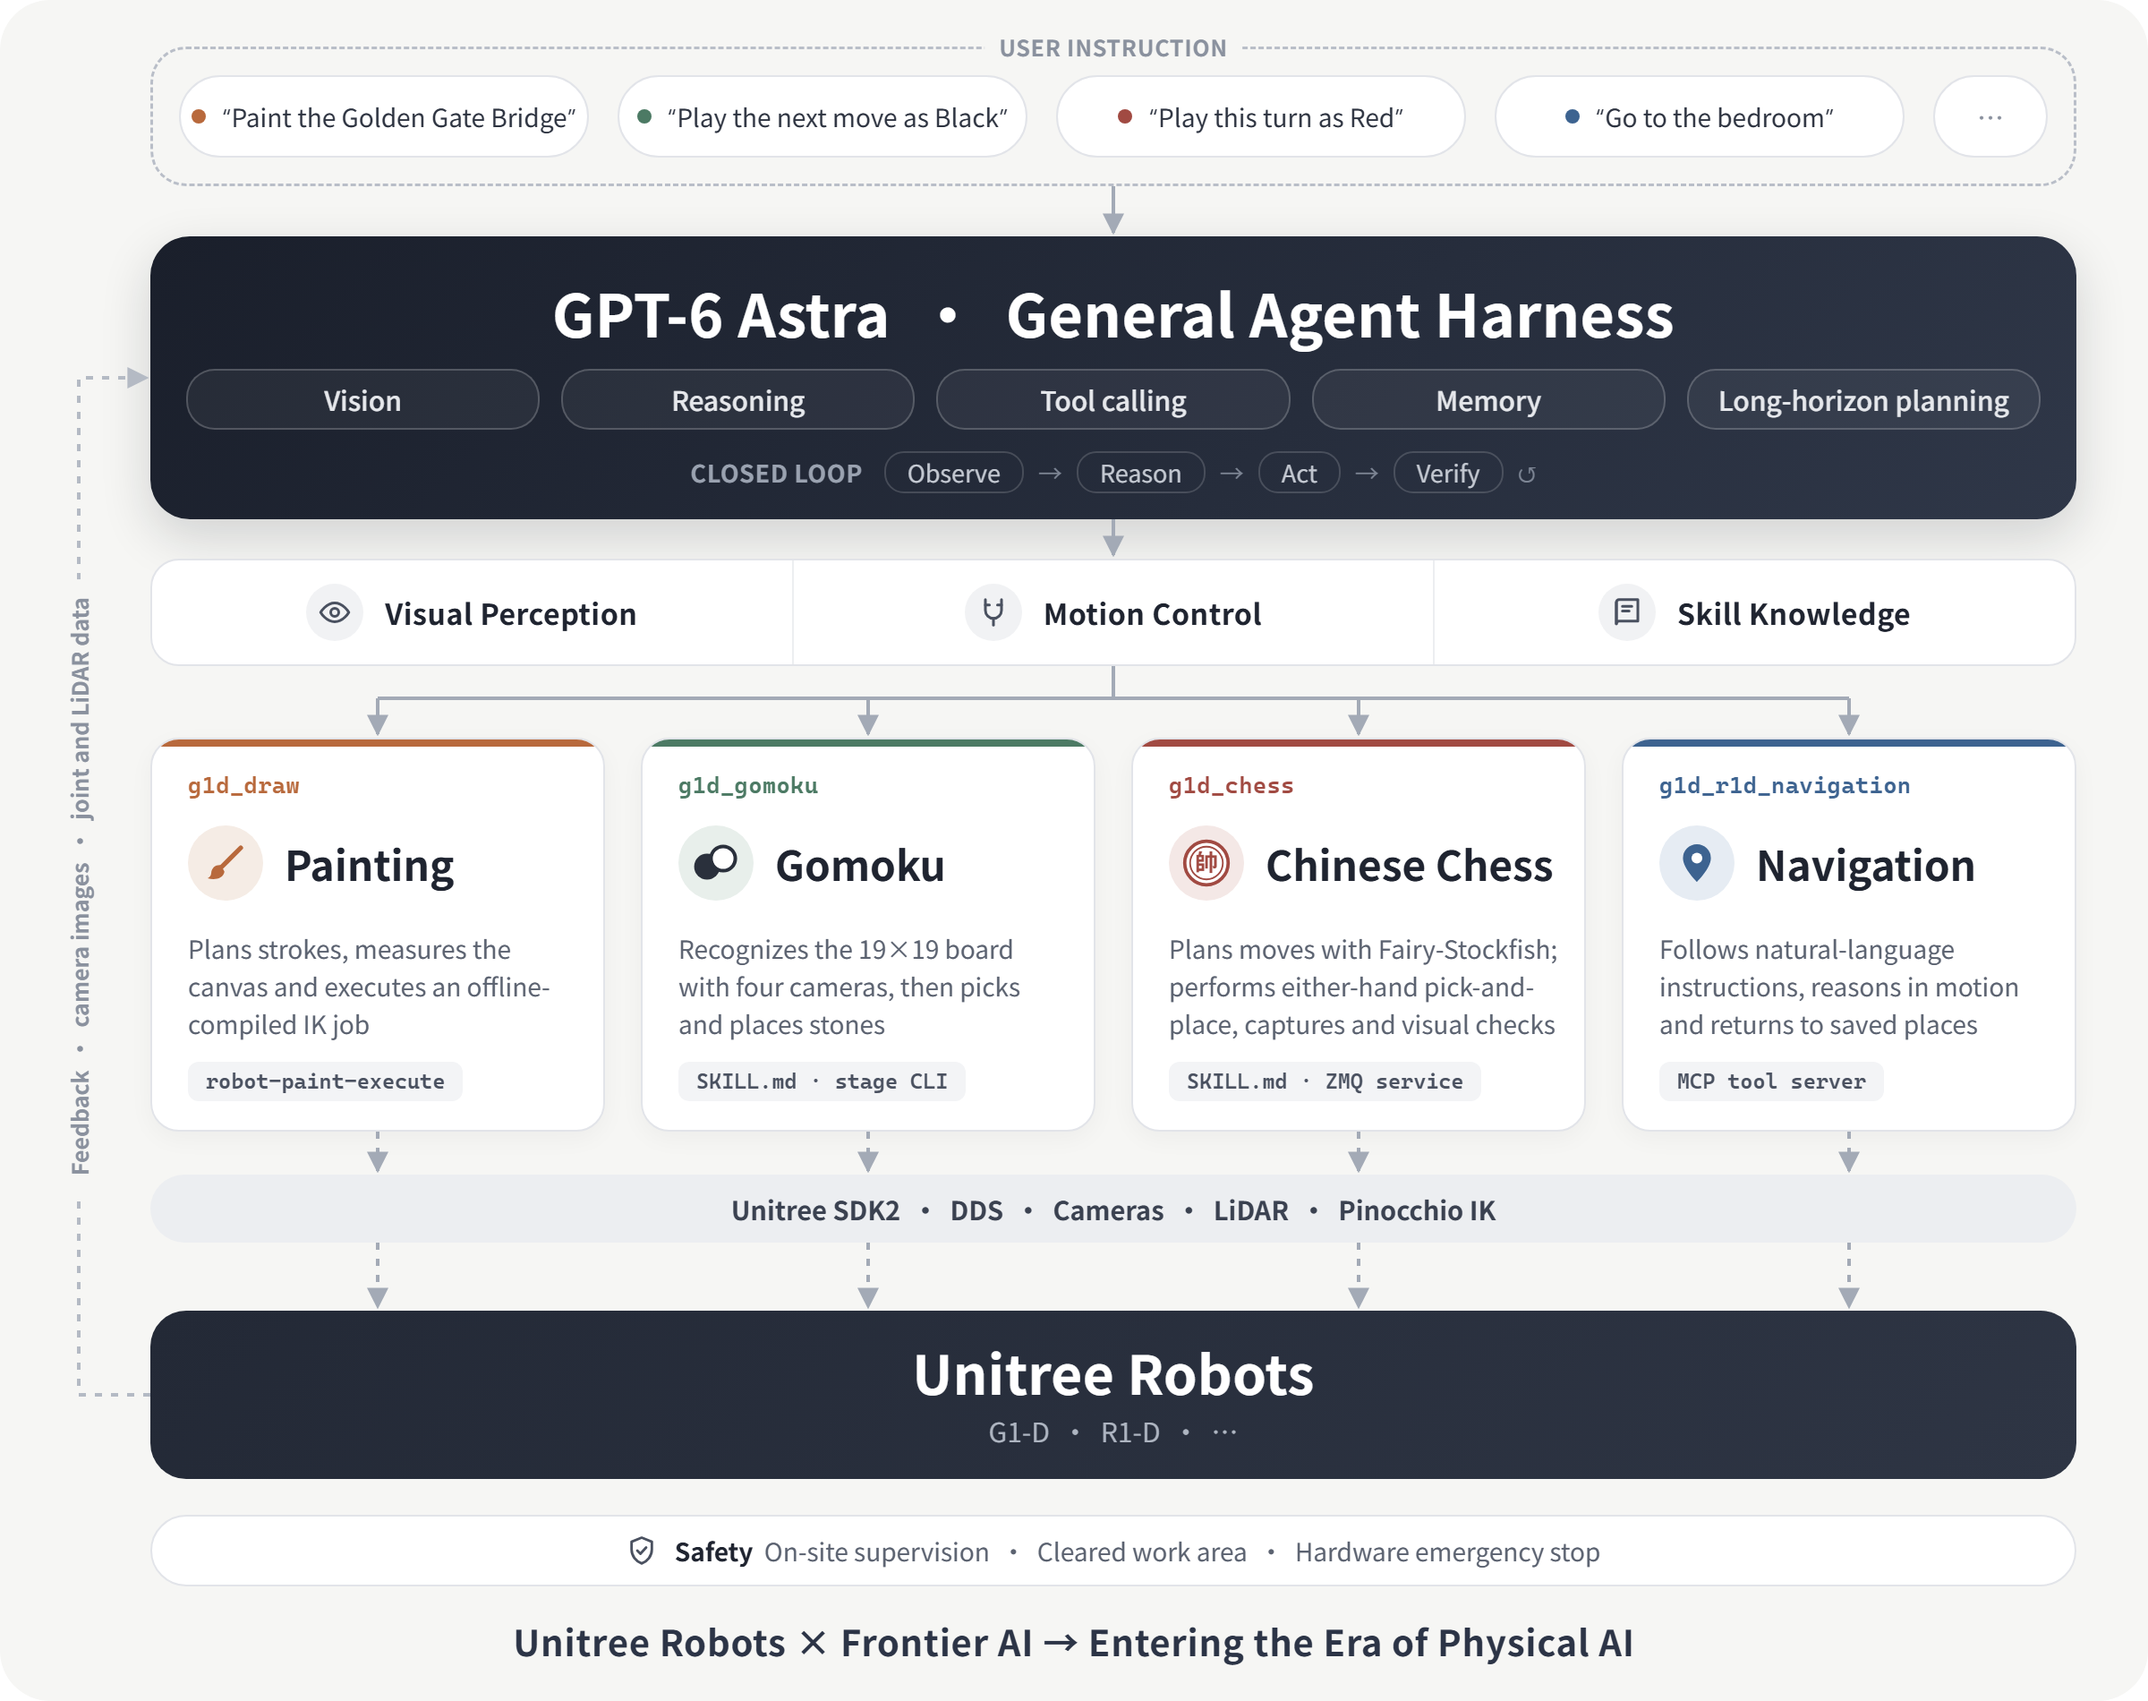
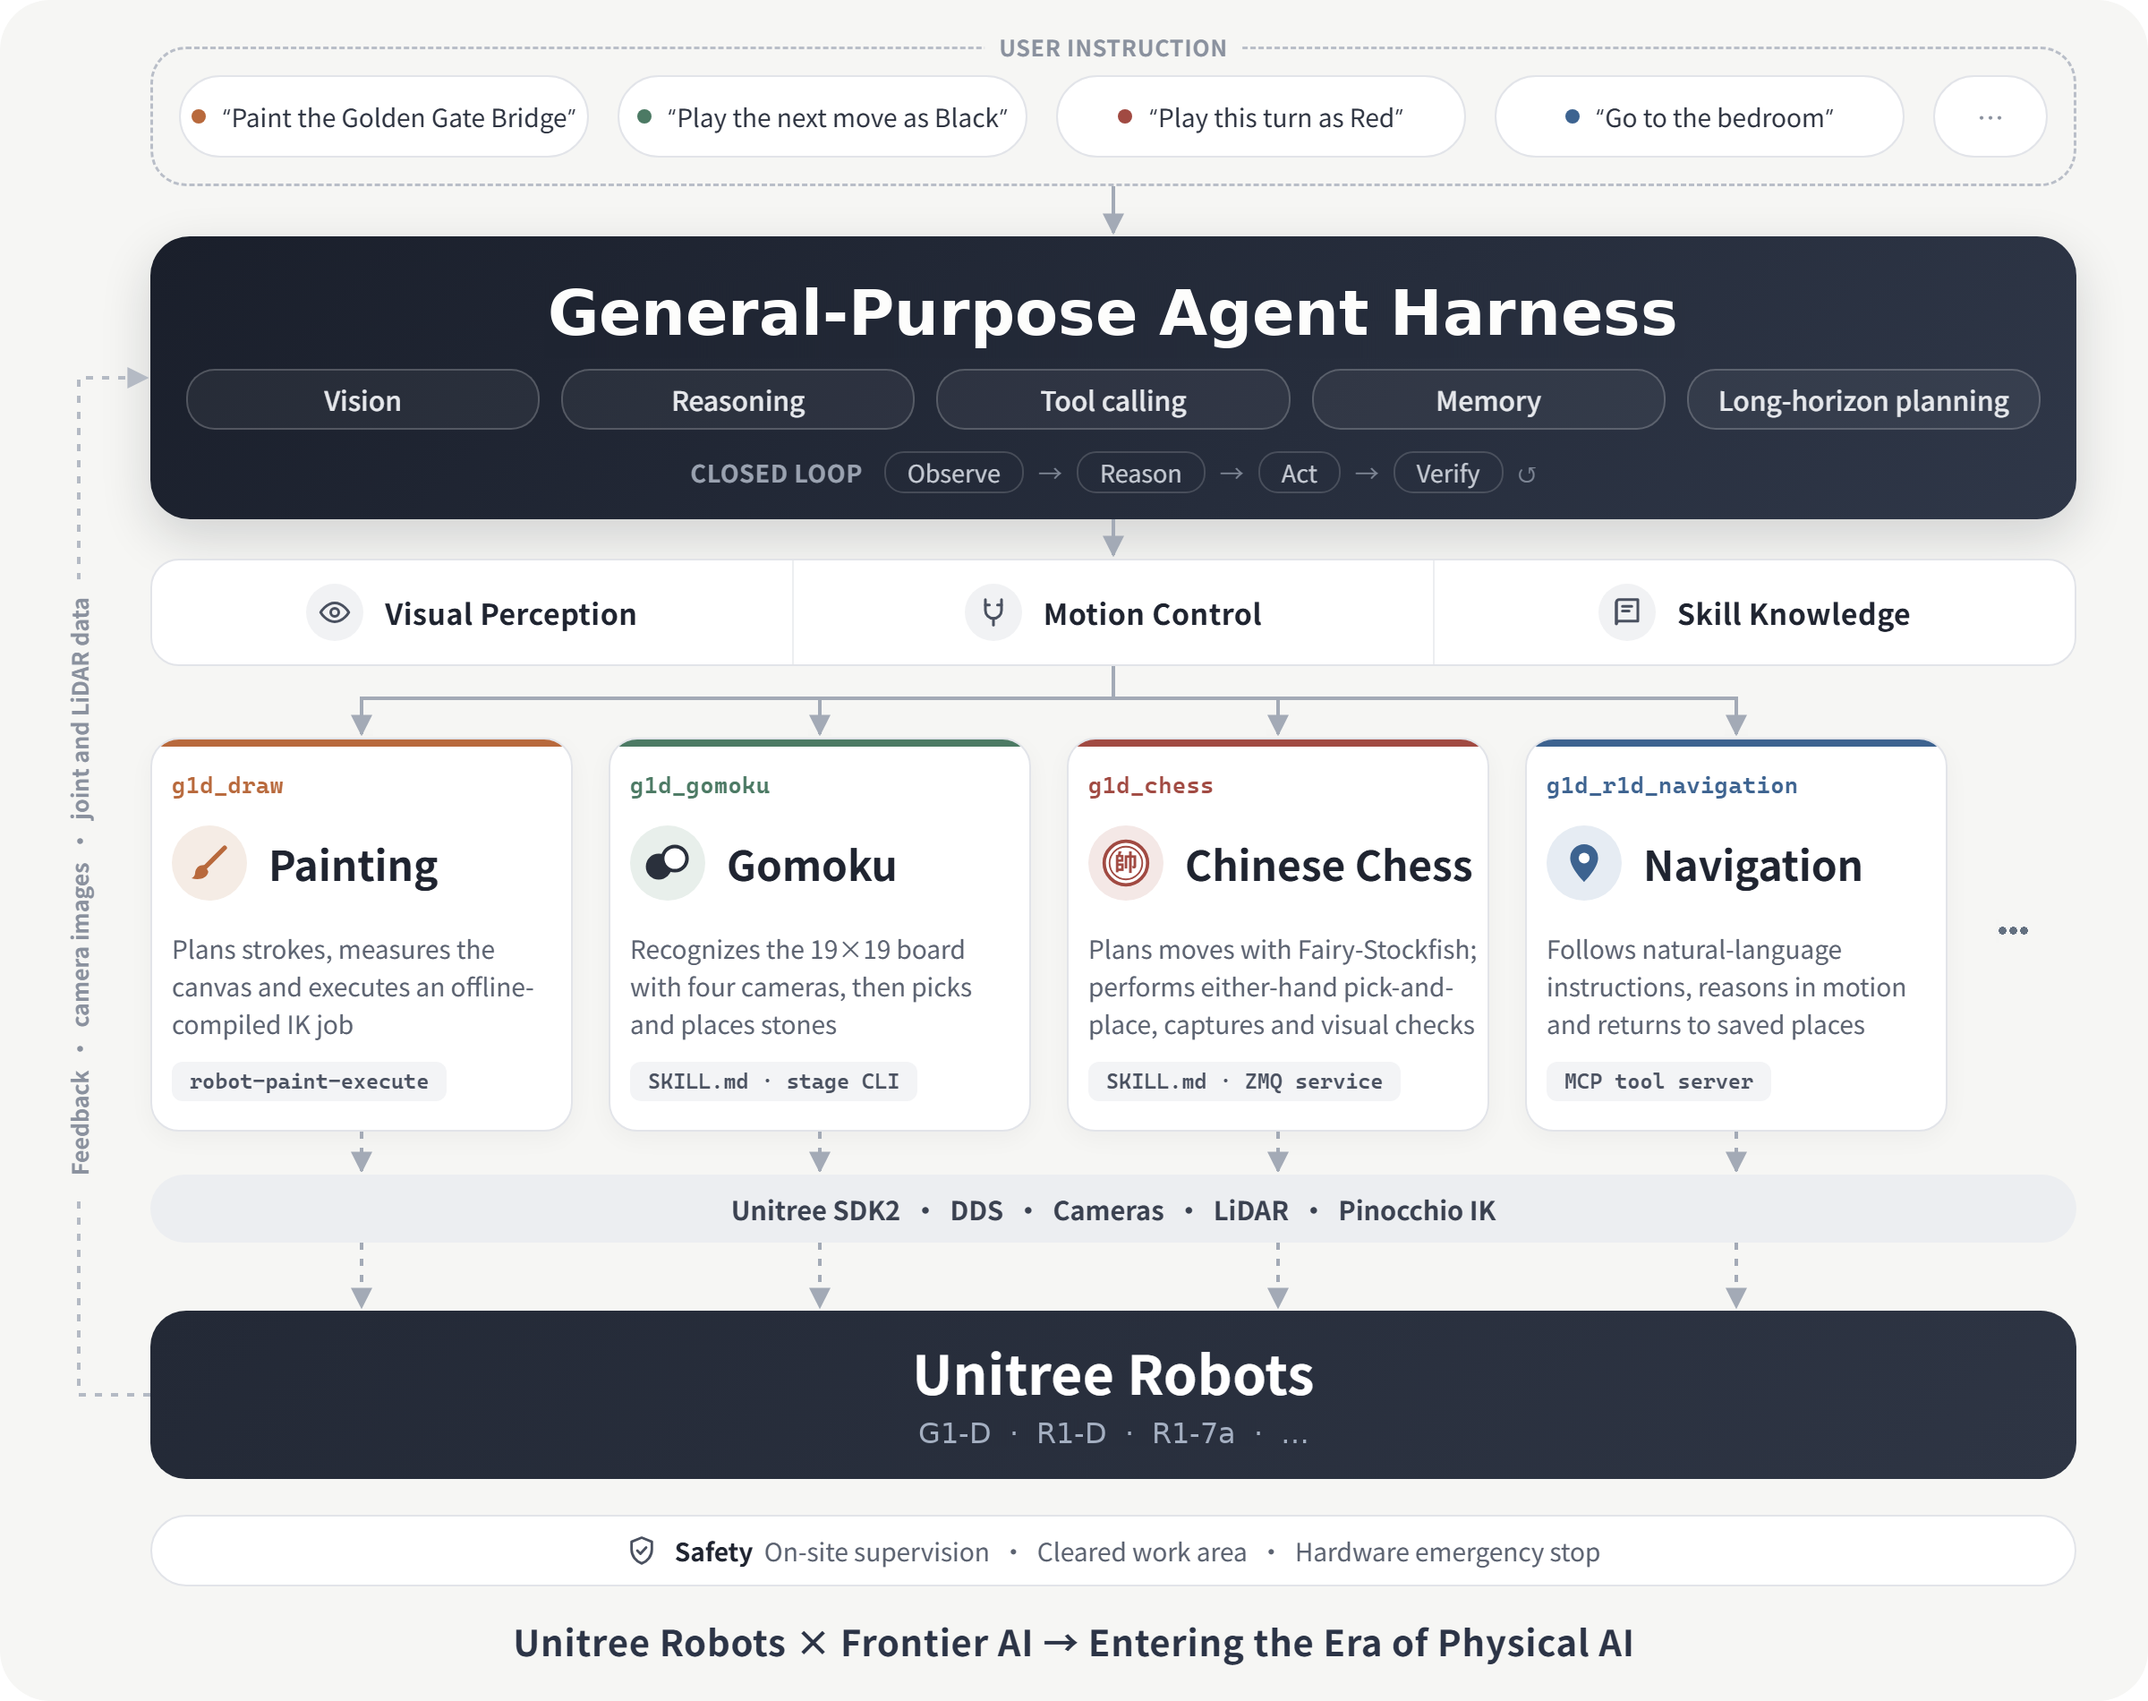
docs: update homepage and related documentation

diff --git a/README.md b/README.md
@@ -3,7 +3,7 @@
   <a href="https://www.unitree.com/" target="_blank">
     <img src="https://www.unitree.com/images/0079f8938336436e955ea3a98c4e1e59.svg" alt="Unitree LOGO" width="15%">
   </a>
-  <p align="center"><b>Unitree Robots · GPT‑6 Astra · General Skills for the Physical World</b></p>
+  <p align="center"><b>Unitree Robots · General Skills for Agents in the Physical World</b></p>
   <p align="center">
     <a>English</a> | <a href="README.zh.md">中文</a>
   </p>
@@ -14,7 +14,7 @@
   </p>
 </div>
 
-**Unitree RobotSkills** combines Unitree robots with frontier AI (GPT‑6 Astra, Claude Opus and others) to build agents that can read images, reason and call tools. Once given a set of robot skills, an AI model observes the scene through the robot's cameras, makes decisions autonomously and carries out tasks in the physical world. No dedicated model needs to be trained for each skill, which is a first step towards controlling robots through language instructions alone.
+**Unitree RobotSkills** provides reusable Agent skills for Unitree robots. Agents such as Codex and Claude Code can use these skills with the capabilities each workflow requires, such as image input, shell access or MCP tools. See each skill's README for its setup and runtime requirements.
 
 > **Unitree Robots × Frontier AI → Entering the Era of Physical AI**: one general AI agent empowers multiple Unitree robots, turning intelligence in conversation into action in the physical world.
 
@@ -63,7 +63,7 @@ Click a preview to watch the full video. The demos are sped up, and part of the 
 
 ### 1. Why It Matters
 
-Robot skills are usually built one task at a time: a dedicated perception model, a hand-written state machine and a fixed motion script. RobotSkills takes a different approach: **the GPT‑6 Astra general agent serves as the brain for every task**, and each skill provides the agent only with the capabilities the task requires:
+RobotSkills gives an Agent the instructions, observations and tools it needs for each task.
 
 - **Visual perception**: raw camera frames from the robot, read and interpreted directly by the agent.
 - **Motion control**: bounded robot tools built on Unitree SDK2 / DDS (arm poses, gripper, base motion, return to home).
@@ -72,7 +72,7 @@ Robot skills are usually built one task at a time: a dedicated perception model,
 The agent closes the loop autonomously: observe → reason → act → verify. A new task only requires a new skill, not a new model; supporting a new robot only requires adding its tools.
 
 <p align="center">
-  <img src="assets/architecture.png" alt="RobotSkills architecture: Unitree robots use GPT-6 Astra for painting, Gomoku, Chinese chess and navigation" width="100%">
+  <img src="assets/architecture.png" alt="RobotSkills architecture showing the General-Purpose Agent Harness and skills for painting, Gomoku, Chinese chess and navigation" width="100%">
 </p>
 
 ### 2. Skills

diff --git a/README.zh.md b/README.zh.md
@@ -3,7 +3,7 @@
   <a href="https://www.unitree.com/" target="_blank">
     <img src="https://www.unitree.com/images/0079f8938336436e955ea3a98c4e1e59.svg" alt="Unitree LOGO" width="15%">
   </a>
-  <p align="center"><b>宇树机器人 · GPT‑6 Astra · 物理世界通用技能</b></p>
+  <p align="center"><b>宇树机器人 · 面向 Agent 的物理世界通用技能</b></p>
   <p align="center">
     <a href="README.md">English</a> | <a>中文</a>
   </p>
@@ -14,7 +14,7 @@
   </p>
 </div>
 
-**Unitree RobotSkills** 将宇树机器人与最前沿的 AI（GPT‑6 Astra、Claude Opus 等）相结合，构建能够看图、推理并调用工具的 Agent。AI 模型获得一组机器人技能后，即可通过机器人相机观察现场、自主决策，并在物理世界中执行相应任务；无需为每个技能单独训练专用模型，初步实现仅凭语言指令即可控制机器人完成任务。
+**Unitree RobotSkills** 为宇树机器人提供可复用的 Agent 技能。Codex、Claude Code 等 Agent 可以按各技能的说明接入，使用任务所需的图像输入、Shell 或 MCP 工具。安装步骤和运行环境要求见各技能的 README。
 
 > **宇树机器人 × 最前沿 AI → 迈入物理 AI 时代**：一个通用 AI Agent 为多款宇树机器人赋能，把对话中的智能变成物理世界中的行动。
 
@@ -63,7 +63,7 @@
 
 ### 1. 项目价值
 
-机器人技能通常一次只解决一个任务：专用感知模型、手写状态机、固定动作脚本。RobotSkills 采用另一种方式：**由 GPT‑6 Astra 通用 Agent 担任所有任务的大脑**，每个技能仅向 Agent 提供完成任务所需的能力：
+RobotSkills 为 Agent 提供每项任务所需的操作说明、现场观测和工具。
 
 - **视觉感知**：机器人相机的原始画面，由 Agent 直接读取并理解。
 - **运动控制**：基于 Unitree SDK2 / DDS、带边界约束的机器人工具（手臂位姿、夹爪、底盘运动、归位）。
@@ -72,7 +72,7 @@
 Agent 自主完成闭环：观察 → 推理 → 执行 → 验证。新增任务只需编写新技能，无需训练新模型；支持新机器人只需补充相应的工具。
 
 <p align="center">
-  <img src="assets/architecture.zh.png" alt="RobotSkills 架构：宇树机器人借助 GPT-6 Astra 实现绘画、五子棋、中国象棋与导航" width="100%">
+  <img src="assets/architecture.zh.png" alt="RobotSkills 架构图，展示 Agent 如何使用绘画、五子棋、中国象棋和导航技能" width="100%">
 
 </p>
 

diff --git a/unitree_gpt6/r17a_marker_sort/README.md b/unitree_gpt6/r17a_marker_sort/README.md
@@ -97,3 +97,5 @@ Run every tool from `src/` as `python3 -m <dir>.<tool>`.
 - A stop or disconnect that releases torque, or restarting the control program, drops the arm. Support the arm by hand before doing any of them.
 - Run motion scripts in the foreground one step at a time and look at the image between steps. Path checks block with `assert`.
 - Do not strain for a pen that is out of reach: a grasp right at a joint limit ended in a motor error, the controller releasing torque and the arm dropping.
+
+In real-robot trials, the R1-7a sorted multiple markers in each run. The average time and cost for a full run were 23.8 minutes and $5.93 with Claude Fable 5.2, 43.6 minutes and $1.42 with GPT-6.1 Terra, and 20.6 minutes and $2.44 with DeepSeek 4.1 Flash via DeepSeek-Harness. The reported times and costs are for reference only. Actual costs may vary with the API provider, any API gateway used, and their pricing.

diff --git a/unitree_gpt6/r17a_marker_sort/README.zh.md b/unitree_gpt6/r17a_marker_sort/README.zh.md
@@ -97,3 +97,5 @@ python3 -m calibration.check <没参与标定的若干帧>  # 像素反投到桌
 - 会卸力的停止、断开或重启控制程序都会让手臂掉下来，需要时先扶住手臂。
 - 运动脚本在前台一步一步跑，每步之间看图。路径检查用 `assert` 拦截。
 - 够不着的笔不要硬够：贴着关节限位抓取时出过电机报错、控制器卸力、手臂落下。
+
+在 R1-7a 多支马克笔分拣实测中，整轮分拣的平均耗时和费用分别为 Claude Fable 5.2 的 23.8 分钟和 5.93 美元，GPT-6.1 Terra 的 43.6 分钟和 1.42 美元，以及通过 DeepSeek-Harness 接入的 DeepSeek 4.1 Flash 的 20.6 分钟和 2.44 美元。实际费用会随 API 提供方、中转服务及其计费方式而变化，以上耗时和费用均仅供参考。
